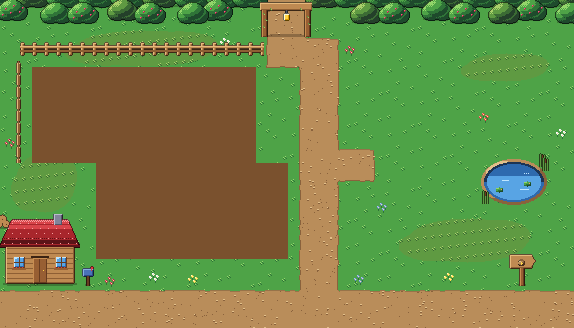
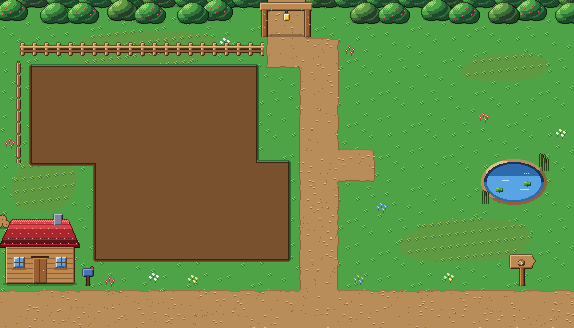
Draw everything at the background's pixel size; redo the field
- Characters, villagers, spirit, trees, rocks, well, box, bed and
  merchant now render at native size (32 px = 1 unit) in Unity
  (PixelArt.Overlay native, CharacterScale = 1) and in the web preview;
  the player is about one field tile tall instead of two
- Villager/spirit offsets and colliders scale with CharacterScale
- Field: raised soil rim around the plot in every season background
  (snowy in winter), calmer dirt tile, tilled tile redrawn as a rounded
  soil mound per cell so beds read individually
- Small 16 px apple for apples lying on the ground

Claude-Session: https://claude.ai/code/session_01VE84PgQiZRnLHxiVPDoQUD

Changed region(s): [[0.0296, 0.1829, 0.4443, 0.7927], [0.1777, 0.5183, 0.5331, 0.8232], [0.4443, 0.2134, 0.5035, 0.5183]]

diff --git a/Tools/webpreview/game.js b/Tools/webpreview/game.js
@@ -235,10 +235,10 @@ function ux() { return CW / sc().ww; }
 function uy() { return CH / sc().wh; }
 function toScreen(wx, wy) { const s = sc(); return [(wx - s.cx) * ux() + CW / 2, CH / 2 - (wy - s.cy) * uy()]; }
 function toWorld(x, y) { const s = sc(); return [(x - CW / 2) / ux() + s.cx, (CH / 2 - y) / uy() + s.cy]; }
-// draw a sprite whose height in world units is ~h, at an integer multiple of its native pixels (keeps pixel art crisp)
-function sprite(c, key, wx, wy, h, anchor = 'center', flip = false, alpha = 1) {
+// draw a sprite at the world's own pixel size (32 px = 1 unit, same as the backgrounds); scale only for small pulses
+function sprite(c, key, wx, wy, scale = 1, anchor = 'center', flip = false, alpha = 1) {
   const im = IMG[key]; if (!im) return;
-  const k = Math.max(1, Math.round(h * uy() / im.height));
+  const k = Math.max(1, Math.round(uy() / 32)) * scale;
   const w = im.width * k, hh = im.height * k;
   let [x, y] = toScreen(wx, wy);
   x = Math.round(x - w / 2); y = Math.round(anchor === 'bottom' ? y - hh : y - hh / 2);
@@ -558,14 +558,14 @@ function gather(ob) {
 function near(x, y, r) { return Math.hypot(G.px - x, G.py - y) <= r; }
 function interact() {
   if (G.scene === 'farm') {
-    const mina = VILLAGERS[2]; if (near(mina.x, mina.y, 1.2)) { talk(mina); return; }
-    if (near(3.68, -0.4, 1.6)) { G.thirst = 100; G.log.drank = true; report('drink'); const cap = waterCap(); if (cap) { G.water = cap; toast(`You drink cool water and fill your watering can. (${G.water}/${cap})`); } else toast('You drink cool, fresh water.'); return; }
-    if (starVineOpen() && near(LADDER[0], LADDER[1] - 1.2, 1.4)) { go('hill', 0, -3.1); return; }
+    const mina = VILLAGERS[2]; if (near(mina.x, mina.y, 1.0)) { talk(mina); return; }
+    if (near(3.68, -0.4, 1.2)) { G.thirst = 100; G.log.drank = true; report('drink'); const cap = waterCap(); if (cap) { G.water = cap; toast(`You drink cool water and fill your watering can. (${G.water}/${cap})`); } else toast('You drink cool, fresh water.'); return; }
+    if (starVineOpen() && near(LADDER[0], LADDER[1] - 1.0, 1.2)) { go('hill', 0, -3.1); return; }
     if (near(POND[0], POND[1], 1.9)) { fish(); return; }
   } else if (G.scene === 'home') {
-    if (Math.abs(G.px + 0.07) < 1.9 && Math.abs(G.py - 1.26) < 3.0) { trySleep(); return; }
+    if (Math.abs(G.px + 0.07) < 1.2 && Math.abs(G.py - 1.26) < 1.5) { trySleep(); return; }
   } else if (G.scene === 'market') {
-    for (const v of VILLAGERS.slice(0, 2)) if (near(v.x, v.y, 1.2)) { talk(v); return; }
+    for (const v of VILLAGERS.slice(0, 2)) if (near(v.x, v.y, 1.0)) { talk(v); return; }
     if (near(-4.2, -2.0, 1.1)) { share(); return; }
     if (Math.abs(G.px - 3.92) < 3 && Math.abs(G.py - 3.01) < 4.5) { panel = { kind: 'shop', tab: 'buy' }; return; }
   } else if (G.scene === 'hill') {
@@ -750,7 +750,7 @@ function update(dt) {
     if (near(-8.38, -4.54, 0.7)) go('home', 0, -3.5);
     else if (near(8.4, -4.5, 0.7)) go('market', -7.6, -3.6);
     else if (G.py > 4.35 && Math.abs(G.px) < 0.7) go('haggle', 0, 0);
-    for (const ob of objectsFor('farm')) if (near(ob.x, ob.y, ob.kind === 'apple' ? 0.55 : 0.6)) gather(ob);
+    for (const ob of objectsFor('farm')) if (near(ob.x, ob.y, ob.kind === 'apple' ? 0.45 : 0.55)) gather(ob);
     if (fishing) {
       fishing.t -= dt;
       if (fishing.state === 'wait' && fishing.t <= 0) { fishing.state = 'bite'; fishing.t = 0.9 + 0.2 * perk('water'); toast('[#ffd84a]!![/]  Something\'s biting! Press E!', 1); }
@@ -763,7 +763,7 @@ function update(dt) {
 
   // spirit follows
   if (G.spirit) {
-    const tx = G.px - 0.85, ty = G.py + 0.75 + Math.sin(performance.now() / 400) * 0.12;
+    const tx = G.px - 0.46, ty = G.py + 0.41 + Math.sin(performance.now() / 400) * 0.06;
     G.spirit.vx = (tx - G.spirit.x); G.spirit.x += (tx - G.spirit.x) * Math.min(1, dt * 5); G.spirit.y += (ty - G.spirit.y) * Math.min(1, dt * 5);
     G.spirit.pulse = Math.max(0, G.spirit.pulse - dt * 2.5);
   }
@@ -787,9 +787,9 @@ function clampPlayer() {
   if (G.scene === 'hill') { minX = -8.4; maxX = 8.4; minY = -4.6; maxY = -1.2; }
   G.px = Math.max(minX, Math.min(maxX, G.px)); G.py = Math.max(minY, Math.min(maxY, G.py));
   const solids = [];
-  if (G.scene === 'farm') { solids.push([3.68, -0.45, 0.9]); solids.push([VILLAGERS[2].x, VILLAGERS[2].y - 0.6, 0.35]); }
-  if (G.scene === 'market') { solids.push([-4.2, -2.3, 0.45]); VILLAGERS.slice(0, 2).forEach(v => solids.push([v.x, v.y - 0.6, 0.35])); }
-  const fx = G.px, fy = G.py - 0.75;
+  if (G.scene === 'farm') { solids.push([3.68, -0.45, 0.55]); solids.push([VILLAGERS[2].x, VILLAGERS[2].y - 0.4, 0.25]); }
+  if (G.scene === 'market') { solids.push([-4.2, -2.35, 0.35]); VILLAGERS.slice(0, 2).forEach(v => solids.push([v.x, v.y - 0.4, 0.25])); }
+  const fx = G.px, fy = G.py - 0.4;
   for (const [x, y, r] of solids) { const d = Math.hypot(fx - x, fy - y); if (d < r && d > 0) { G.px += (fx - x) / d * (r - d); G.py += (fy - y) / d * (r - d); } }
 }
 function updateStars(dt) {
@@ -811,39 +811,39 @@ function renderWorld() {
   const draws = [];  // [sortY, fn]
   if (G.scene === 'farm') {
     for (const k of FIELD) { const [x, y] = k.split(',').map(Number); const t = G.tiles[k]; const key = t ? (t.wet ? 'Tiles/tilled_wet' : 'Tiles/tilled') : 'Tiles/dirt';
-      const [sx, sy] = toScreen(x, y + 1); c.drawImage(IMG[key], Math.round(sx), Math.round(sy), Math.ceil(ux()) + 1, Math.ceil(uy()) + 1); }
+      const [sx, sy] = toScreen(x, y + 1); c.drawImage(IMG[key], Math.round(sx), Math.round(sy), 64, 64); }
     for (const k in G.crops) {
       const cr = G.crops[k]; const [x, y] = k.split(',').map(Number); const def = CROPS[cr.id];
       const stage = mature(cr) ? 3 : Math.min(2, Math.floor(cr.days * 3 / def.days));
       draws.push([y + 0.5, () => { c.save(); if (!cr.watered && !mature(cr)) c.filter = 'brightness(0.8)'; if (cr.blessed) c.filter = 'sepia(0.6) saturate(2) brightness(1.15)';
-        sprite(c, `Crops/${cr.id}_${stage}`, x + 0.5, y + 0.5, 1); c.restore(); }]);
+        sprite(c, `Crops/${cr.id}_${stage}`, x + 0.5, y + 0.5); c.restore(); }]);
     }
     const seasonalTree = G.story.season === 0 ? 'World/tree_winter' : G.story.season === 3 ? 'World/tree_autumn' : 'World/tree';
     for (const ob of objectsFor('farm')) {
-      if (ob.kind === 'tree') draws.push([ob.y - 0.9, () => sprite(c, seasonalTree, ob.x, ob.y - 0.92, 2.67, 'bottom')]);
-      if (ob.kind === 'rock') draws.push([ob.y, () => sprite(c, G.story.season === 0 ? 'World/rock_winter' : 'World/rock', ob.x, ob.y, 0.66)]);
-      if (ob.kind === 'apple') draws.push([ob.y, () => sprite(c, 'World/apple_ground', ob.x, ob.y, 0.45)]);
+      if (ob.kind === 'tree') draws.push([ob.y - 0.35, () => sprite(c, seasonalTree, ob.x, ob.y - 0.35, 1, 'bottom')]);
+      if (ob.kind === 'rock') draws.push([ob.y, () => sprite(c, G.story.season === 0 ? 'World/rock_winter' : 'World/rock', ob.x, ob.y)]);
+      if (ob.kind === 'apple') draws.push([ob.y, () => sprite(c, 'World/apple_ground', ob.x, ob.y)]);
     }
-    draws.push([-0.03 - 1.0, () => sprite(c, G.story.season === 0 ? 'World/well_winter' : 'World/well', 3.68, -0.03, 2.3)]);
-    if (starVineOpen()) draws.push([LADDER[1] - 2, () => sprite(c, 'World/star_ladder', LADDER[0], LADDER[1], 4.1)]);
+    draws.push([-0.03 - 0.6, () => sprite(c, G.story.season === 0 ? 'World/well_winter' : 'World/well', 3.68, -0.03)]);
+    if (starVineOpen()) draws.push([LADDER[1] - 1.1, () => sprite(c, 'World/star_ladder', LADDER[0], LADDER[1])]);
   }
-  if (G.scene === 'home') { draws.push([-1.5, () => sprite(c, 'World/bed', -0.07, 1.26, 4.9)]); draws.push([0, () => sprite(c, 'World/exit_sign', 8.28, 0.03, 0.9)]); }
+  if (G.scene === 'home') { draws.push([0.5, () => sprite(c, 'World/bed', -0.07, 1.26)]); draws.push([0, () => sprite(c, 'World/exit_sign', 8.28, 0.03)]); }
   if (G.scene === 'market') {
-    draws.push([2.0, () => sprite(c, 'World/merchant', 3.92, 3.01, 2.6)]);
-    draws.push([-2.3, () => sprite(c, 'World/donation_box', -4.2, -2.0, 1.1)]);
-    draws.push([0, () => sprite(c, G.story.season === 0 ? 'World/exit_sign_winter' : 'World/exit_sign', -8.27, -0.05, 0.9)]);
+    draws.push([2.3, () => sprite(c, 'World/merchant', 3.92, 3.01)]);
+    draws.push([-2.5, () => sprite(c, 'World/donation_box', -4.2, -2.0)]);
+    draws.push([0, () => sprite(c, G.story.season === 0 ? 'World/exit_sign_winter' : 'World/exit_sign', -8.27, -0.05)]);
   }
-  if (G.scene === 'hill') for (const s of G.stars) draws.push([s.y, () => sprite(c, 'Items/star_fragment', s.x, s.y, 0.6 * (1 + Math.sin(performance.now() / 160 + s.x) * 0.1))]);
+  if (G.scene === 'hill') for (const s of G.stars) draws.push([s.y, () => sprite(c, 'Items/star_fragment', s.x, s.y, 0.5 * (1 + Math.sin(performance.now() / 160 + s.x) * 0.1))]);
   for (const v of VILLAGERS) if (v.scene === G.scene) {
-    draws.push([v.y - 0.9, () => {
-      const k = 1 + Math.sin((v.pulse || 0) * Math.PI) * 0.15; sprite(c, villagerSprite(v), v.x, v.y, 1.84 * k);
-      if (!villagerProgress(v.id).met || wishReady(v)) sprite(c, 'World/bubble', v.x + 0.35, v.y + 1.05 + Math.sin(performance.now() / 250) * 0.04, 0.69);
+    draws.push([v.y - 0.45, () => {
+      const k = 1 + Math.sin((v.pulse || 0) * Math.PI) * 0.15; sprite(c, villagerSprite(v), v.x, v.y, k);
+      if (!villagerProgress(v.id).met || wishReady(v)) sprite(c, 'World/bubble', v.x + 0.19, v.y + 0.62 + Math.sin(performance.now() / 250) * 0.03);
     }]);
   }
   if (G.scene !== 'haggle') {
     const frameIdx = G.step === 1 ? 1 : G.step === 3 ? 2 : 0;
-    draws.push([G.py - 0.9, () => sprite(c, `Player/player_${G.dir}_${frameIdx}`, G.px, G.py, 1.84, 'center', G.dir === 'side' && G.facingLeft)]);
-    if (G.spirit) draws.push([G.spirit.y - 0.5, () => sprite(c, 'Spirit/' + spiritForm(S().spirit), G.spirit.x, G.spirit.y, 1.56 * (1 + Math.sin(G.spirit.pulse * Math.PI) * 0.25), 'center', G.spirit.vx < -0.05)]);
+    draws.push([G.py - 0.45, () => sprite(c, `Player/player_${G.dir}_${frameIdx}`, G.px, G.py, 1, 'center', G.dir === 'side' && G.facingLeft)]);
+    if (G.spirit) draws.push([G.spirit.y - 0.3, () => sprite(c, 'Spirit/' + spiritForm(S().spirit), G.spirit.x, G.spirit.y, 1 + Math.sin(G.spirit.pulse * Math.PI) * 0.25, 'center', G.spirit.vx < -0.05)]);
   }
   draws.sort((a, b) => b[0] - a[0]).forEach(d => d[1]());
   // night
@@ -937,15 +937,15 @@ function renderUI() {
 }
 function promptText() {
   if (G.scene === 'farm') {
-    const mina = VILLAGERS[2]; if (near(mina.x, mina.y, 1.2)) return `[E] Talk to ${mina.name}`;
-    if (near(3.68, -0.4, 1.6)) return '[E] Drink and refill your watering can';
-    if (starVineOpen() && near(LADDER[0], LADDER[1] - 1.2, 1.4)) return '[E] Climb the glowing vine';
+    const mina = VILLAGERS[2]; if (near(mina.x, mina.y, 1.0)) return `[E] Talk to ${mina.name}`;
+    if (near(3.68, -0.4, 1.2)) return '[E] Drink and refill your watering can';
+    if (starVineOpen() && near(LADDER[0], LADDER[1] - 1.0, 1.2)) return '[E] Climb the glowing vine';
     if (near(POND[0], POND[1], 1.9)) return fishing ? (fishing.state === 'bite' ? '[#ffd84a][E] NOW![/]' : 'Waiting for a bite...') : (has('Fishing Rod') ? '[E] Fish' : 'The pond is full of fish');
     if (near(-8.38, -4.54, 1.6)) return 'Home';
     if (near(8.4, -4.5, 1.6)) return 'To the market';
-  } else if (G.scene === 'home') { if (Math.abs(G.px + 0.07) < 1.9 && Math.abs(G.py - 1.26) < 3.0) return '[E] Sleep and end the day'; if (G.px > 6.8) return 'Back to the farm';
+  } else if (G.scene === 'home') { if (Math.abs(G.px + 0.07) < 1.2 && Math.abs(G.py - 1.26) < 1.5) return '[E] Sleep and end the day'; if (G.px > 6.8) return 'Back to the farm';
   } else if (G.scene === 'market') {
-    for (const v of VILLAGERS.slice(0, 2)) if (near(v.x, v.y, 1.2)) return `[E] Talk to ${v.name}`;
+    for (const v of VILLAGERS.slice(0, 2)) if (near(v.x, v.y, 1.0)) return `[E] Talk to ${v.name}`;
     if (near(-4.2, -2.0, 1.1)) return '[E] Share the food you hold (Shift+E: more)';
     if (Math.abs(G.px - 3.92) < 3 && Math.abs(G.py - 3.01) < 4.5) return '[E] Trade with the merchant';
     if (G.px < -7) return 'Back to the farm';
@@ -954,7 +954,7 @@ function promptText() {
 }
 
 // ------------------------------------------------------------------ save
-const SAVE_KEY = 'mlf-preview-v1';
+const SAVE_KEY = 'mlf-preview-v2';
 function save() { try { localStorage.setItem(SAVE_KEY, JSON.stringify(G)); } catch (e) { /* storage unavailable: preview still works */ } }
 function load() { try { const s = localStorage.getItem(SAVE_KEY); if (s) { G = JSON.parse(s); return true; } } catch (e) { /* ignore */ } return false; }
 

diff --git a/Tools/pixelart/crops.py b/Tools/pixelart/crops.py
@@ -157,48 +157,52 @@ CROPS = {
 
 # ---------- ground tiles (seamless 32x32) ----------
 def dirt_tile(seed=1):
+    """Untilled field soil: calm, a few hand-placed clods and pebbles (tiles seamlessly)."""
     c = Canvas(S, S)
-    rnd = seeded(seed)
     r = P['dirt']
     for y in range(S):
         for x in range(S):
             c.set(x, y, r[2])
-    for _ in range(70):
-        x, y = rnd.randrange(S), rnd.randrange(S)
-        c.set(x, y, r[1] if rnd.random() < 0.7 else r[3])
-    for _ in range(6):  # pebbles (warm, low contrast)
-        x, y = rnd.randrange(S), rnd.randrange(S)
-        c.set(x, y, P['tan'][2]); c.set((x + 1) % S, y, P['dirt'][1])
-    for _ in range(3):  # tiny grass tufts
-        x, y = rnd.randrange(S), rnd.randrange(2, S)
-        c.set(x, y, P['leaf'][1]); c.set(x, y - 1, P['leaf'][2])
+    for (x, y) in [(4, 5), (19, 3), (27, 12), (10, 16), (22, 22), (5, 26), (15, 29), (29, 27)]:   # clods
+        c.set(x, y, r[3]); c.set(x + 1, y, r[3]); c.set(x, y + 1, r[1]); c.set(x + 1, y + 1, r[1])
+    for (x, y) in [(13, 8), (25, 18), (7, 21)]:                                                    # pebbles
+        c.set(x, y, P['tan'][3]); c.set(x + 1, y + 1, P['dirt'][0])
+    for (x, y) in [(2, 12), (17, 24), (30, 6), (12, 2)]:                                            # specks
+        c.set(x, y, r[1])
     return c
 
 
 def tilled_tile(wet=False, seed=2):
+    """One dug garden bed per cell: a soft, rounded mound of loose soil in a darker trench,
+    so every tilled cell reads as its own plot (no straight plank-like lines)."""
     c = Canvas(S, S)
-    rnd = seeded(seed)
-    base = P['dirt'] if not wet else [darken_c(P['dirt'][0], 0.7), darken_c(P['dirt'][1], 0.72), darken_c(P['dirt'][2], 0.7), darken_c(P['dirt'][3], 0.72)]
+    d = P['dirt']
+    if wet:
+        d = [darken_c(d[0], 0.62), darken_c(d[1], 0.66), darken_c(d[2], 0.68), darken_c(d[3], 0.72)]
+    trench, low, mid, high = d[0], d[1], d[2], d[3]
     for y in range(S):
         for x in range(S):
-            c.set(x, y, base[1])
-    # furrows: 4 raised ridges per tile
-    for row in range(4):
-        y0 = row * 8
+            c.set(x, y, low)
+    cx, cy, rx, ry = 15.5, 15.5, 13.5, 13.0
+    for y in range(S):
         for x in range(S):
-            c.set(x, y0 + 1, base[3])
-            c.set(x, y0 + 2, base[2])
-            c.set(x, y0 + 3, base[2])
-            c.set(x, y0 + 4, base[1])
-            c.set(x, y0 + 6, base[0])
-    for _ in range(40):
-        x, y = rnd.randrange(S), rnd.randrange(S)
-        p = c.get(x, y)
-        c.set(x, y, lighten_c(p, 0.12) if rnd.random() < 0.5 else darken_c(p, 0.85))
+            nx, ny = (x + 0.5 - cx) / rx, (y + 0.5 - cy) / ry
+            v = nx ** 4 + ny ** 4                    # superellipse: a rounded-square mound
+            if v <= 1:
+                col = mid
+                if ny < -0.78 or (nx < -0.86 and ny < 0.3):
+                    col = high                       # lit top / upper-left rim
+                elif ny > 0.82 or nx > 0.88:
+                    col = trench                     # shaded bottom / right rim
+                c.set(x, y, col)
+    # loose clods in staggered rows (broken, not straight furrows)
+    for row, y in enumerate((9, 16, 23)):
+        for x in range(6 + (row % 2) * 3, 26, 6):
+            c.set(x, y, trench); c.set(x + 1, y, trench)
+            c.set(x, y - 1, high)
     if wet:
-        for _ in range(7):  # glints of water on the ridges
-            x, y = rnd.randrange(S), rnd.randrange(4) * 8 + 2
-            c.set(x, y, (104, 128, 150, 255)); c.set((x + 1) % S, y, (80, 100, 122, 255))
+        for (x, y) in [(8, 6), (9, 6), (19, 12), (20, 12), (12, 20), (13, 20), (23, 25)]:
+            c.set(x, y, (112, 136, 160, 255))
     return c
 
 

diff --git a/Assets/Script/PixelArt.cs b/Assets/Script/PixelArt.cs
@@ -12,8 +12,8 @@ public static class PixelArt
 
     public const float PixelsPerUnit = 32f;
 
-    // 32px 캐릭터 한 장이 월드에서 차지하는 크기 (플레이어 오버레이 크기와 동일하게 유지)
-    public static float CharacterScale = 1.84f;
+    // 32px 캐릭터 한 장이 월드에서 차지하는 크기. 1 = 배경과 같은 픽셀 크기(32px = 1유닛)
+    public static float CharacterScale = 1f;
 
     private static readonly Dictionary<string, Sprite> spriteCache = new Dictionary<string, Sprite>();
     private static readonly Dictionary<string, Sprite[]> cropCache = new Dictionary<string, Sprite[]>();
@@ -59,7 +59,8 @@ public static class PixelArt
     //  fill:         원래 영역 대비 크기 배율 (1 = 꽉 맞춤)
     //  stretch:      true면 비율 무시하고 원래 영역에 정확히 맞춤 (배경용)
     //  anchorBottom: true면 원래 영역의 바닥에 맞춰 위로 자람 (나무처럼 키를 키울 때)
-    public static SpriteRenderer Overlay(SpriteRenderer original, Sprite sprite, float fill = 0.9f, bool stretch = false, bool anchorBottom = false)
+    //  native:       true면 원래 크기와 상관없이 배경과 같은 픽셀 크기(32px = 1유닛)로 그림
+    public static SpriteRenderer Overlay(SpriteRenderer original, Sprite sprite, float fill = 0.9f, bool stretch = false, bool anchorBottom = false, bool native = false)
     {
         if (original == null || sprite == null) return null;
 
@@ -82,7 +83,11 @@ public static class PixelArt
         float spriteH = sprite.rect.height / sprite.pixelsPerUnit;
 
         float scaleX, scaleY;
-        if (stretch)
+        if (native)
+        {
+            scaleX = scaleY = PixelsPerUnit / sprite.pixelsPerUnit;   // 스프라이트의 원래 픽셀 크기 그대로
+        }
+        else if (stretch)
         {
             scaleX = targetSize.x / spriteW * fill;
             scaleY = targetSize.y / spriteH * fill;

diff --git a/Assets/Script/Villager.cs b/Assets/Script/Villager.cs
@@ -23,10 +23,10 @@ public class Villager : MonoBehaviour
 
         CircleCollider2D talkRange = go.AddComponent<CircleCollider2D>();
         talkRange.isTrigger = true;
-        talkRange.radius = 1.15f;
+        talkRange.radius = 1.0f;
         BoxCollider2D feet = go.AddComponent<BoxCollider2D>();   // 발밑만 막아서 자연스럽게 비켜 지나가도록
-        feet.size = new Vector2(0.55f, 0.25f);
-        feet.offset = new Vector2(0f, -0.75f);
+        feet.size = new Vector2(0.3f * characterScale, 0.14f * characterScale);
+        feet.offset = new Vector2(0f, -0.41f * characterScale);
 
         GameObject bodyGO = new GameObject("Body");
         bodyGO.transform.SetParent(go.transform, false);
@@ -37,7 +37,7 @@ public class Villager : MonoBehaviour
 
         GameObject bubbleGO = new GameObject("Bubble");
         bubbleGO.transform.SetParent(go.transform, false);
-        bubbleGO.transform.localPosition = new Vector3(0.35f, 1.05f, 0f);
+        bubbleGO.transform.localPosition = new Vector3(0.19f * characterScale, 0.57f * characterScale, 0f);
         bubbleGO.transform.localScale = Vector3.one * characterScale;
         SpriteRenderer bsr = bubbleGO.AddComponent<SpriteRenderer>();
         if (material != null) bsr.sharedMaterial = material;
@@ -99,7 +99,7 @@ public class Villager : MonoBehaviour
         {
             bool show = HasSomethingToSay() && !HUD.DialogueOpen;
             bubble.enabled = show;
-            if (show) bubble.transform.localPosition = new Vector3(0.35f, 1.05f + Mathf.Sin(Time.time * 4f) * 0.04f, 0f);
+            if (show) bubble.transform.localPosition = new Vector3(0.19f * baseScale, (0.57f + Mathf.Sin(Time.time * 4f) * 0.02f) * baseScale, 0f);
         }
 
         // 색이 돌아올 때 톡 튀는 연출

diff --git a/Tools/pixelart/backgrounds.py b/Tools/pixelart/backgrounds.py
@@ -434,12 +434,34 @@ def farm(season='spring'):
         wr(1.5, -0.55, 2.7, 0.45),      # to the well
     ], TRAMPLED if season == 'winter' else P['tan'])
 
-    # field soil underlay (the Dirt tiles render on top of this exact area)
+    # field soil underlay (the Dirt tiles render on top of this exact area) + a raised soil rim around it
+    field = set()
     for (x0, y0, x1, y1) in [(-8, 0, -1, 3), (-6, -3, 0, 0)]:
         a, b = bg.px(x0, y1), bg.px(x1, y0)
         for y in range(a[1], b[1]):
             for x in range(a[0], b[0]):
                 bg.c.set(x, y, P['dirt'][2])
+                field.add((x, y))
+    rim = {}
+    for (x, y) in field:
+        for dx in range(-3, 4):
+            for dy in range(-3, 4):
+                q = (x + dx, y + dy)
+                if q in field or abs(dx) + abs(dy) > 4:
+                    continue
+                dist = max(abs(dx), abs(dy))
+                if q not in rim or dist < rim[q]:
+                    rim[q] = dist
+    snow = season == 'winter'
+    for (x, y), dist in rim.items():
+        above_field = (x, y + 1) in field or (x, y + 2) in field or (x, y + 3) in field   # rim north of the field
+        if dist == 1:
+            col = P['dirt'][0]                                   # the trench right at the field edge
+        elif dist == 2:
+            col = (SNOW[2] if snow and above_field else P['dirt'][3] if above_field else P['dirt'][1])
+        else:
+            col = (SNOW[3] if snow else darken_c(season_ground(season)[1], 0.95))   # grass shadow / snow lip
+        bg.c.set(x, y, col)
 
     # --- tree line along the top (gap for the north path) ---
     def hedge_ramp(i):

diff --git a/Assets/Script/Spirit.cs b/Assets/Script/Spirit.cs
@@ -30,9 +30,9 @@ public class Spirit : MonoBehaviour
         {
             SpriteRenderer psr = PlayerAction.instance.GetComponent<SpriteRenderer>();
             if (psr != null) s.sr.sharedMaterial = psr.sharedMaterial;
-            go.transform.position = PlayerAction.instance.transform.position + new Vector3(-0.8f, 0.8f, 0f);
+            go.transform.position = PlayerAction.instance.transform.position + new Vector3(-0.46f, 0.41f, 0f) * PixelArt.CharacterScale;
         }
-        s.scale = PixelArt.CharacterScale * 0.85f;
+        s.scale = PixelArt.CharacterScale;
         go.transform.localScale = Vector3.one * s.scale;
         Instance = s;
         s.RefreshSprite(true);
@@ -80,7 +80,8 @@ public class Spirit : MonoBehaviour
         if (hidden) return;
 
         // 플레이어의 왼쪽 위에서 둥실둥실 따라다님
-        Vector3 target = player.transform.position + new Vector3(-0.85f, 0.75f + Mathf.Sin(Time.time * 2.5f) * 0.12f, 0f);
+        float follow = PixelArt.CharacterScale;
+        Vector3 target = player.transform.position + new Vector3(-0.46f * follow, (0.41f + Mathf.Sin(Time.time * 2.5f) * 0.06f) * follow, 0f);
         target.z = player.transform.position.z;
         if ((transform.position - target).sqrMagnitude > 100f) transform.position = target;   // 씬 이동 직후 순간이동
         transform.position = Vector3.SmoothDamp(transform.position, target, ref velocity, 0.25f);

diff --git a/Assets/Script/PixelArtWorld.cs b/Assets/Script/PixelArtWorld.cs
@@ -34,11 +34,11 @@ public static class PixelArtWorld
                 Sprite sprite = SeasonalSprite(key);
                 SpriteRenderer view;
                 if (key.StartsWith("bg_"))
-                    view = PixelArt.Overlay(sr, sprite, 1f, stretch: true);          // 배경: 원래 영역에 정확히
+                    view = PixelArt.Overlay(sr, sprite, 1f, stretch: true);                 // 배경: 원래 영역에 정확히
                 else if (key == "tree")
-                    view = PixelArt.Overlay(sr, sprite, 1.45f, anchorBottom: true);  // 나무: 플레이어보다 크게, 밑동 고정
+                    view = PixelArt.Overlay(sr, sprite, anchorBottom: true, native: true);  // 나무: 배경과 같은 픽셀 크기, 밑동 고정
                 else
-                    view = PixelArt.Overlay(sr, sprite);
+                    view = PixelArt.Overlay(sr, sprite, native: true);                      // 나머지도 배경과 같은 픽셀 크기
                 if (view != null && view.GetComponent<SeasonalArt>() == null) view.gameObject.AddComponent<SeasonalArt>().baseKey = key;
             }
         }

diff --git a/Tools/pixelart/world.py b/Tools/pixelart/world.py
@@ -39,7 +39,15 @@ def rock():
 
 
 def apple_ground():
-    c = items.apple()
+    """A small apple lying in the grass (16px, the same pixel size as the world)."""
+    c = Canvas(16, 16)
+    c.shadow(8, 14, 5, 1.2)
+    c.ellipse(6, 9, 4, 4.5, P['red'])
+    c.ellipse(10, 9, 4, 4.5, P['red'])
+    c.set(5, 7, P['red'][3]); c.set(4, 8, P['white'][3])
+    c.line(8, 5, 9, 2, P['wood'][1])
+    c.set(10, 3, P['leaf'][2]); c.set(11, 3, P['leaf'][3]); c.set(11, 2, P['leaf'][2])
+    c.outline()
     return c
 
 

diff --git a/Assets/Script/PlayerPixelAnimator.cs b/Assets/Script/PlayerPixelAnimator.cs
@@ -30,7 +30,7 @@ public class PlayerPixelAnimator : MonoBehaviour
         }
 
         SpriteRenderer original = GetComponent<SpriteRenderer>();
-        view = PixelArt.Overlay(original, down[0], 0.9f);
+        view = PixelArt.Overlay(original, down[0], native: true);   // 배경과 같은 픽셀 크기 (밭 한 칸 높이)
         if (view == null)
         {
             enabled = false;
